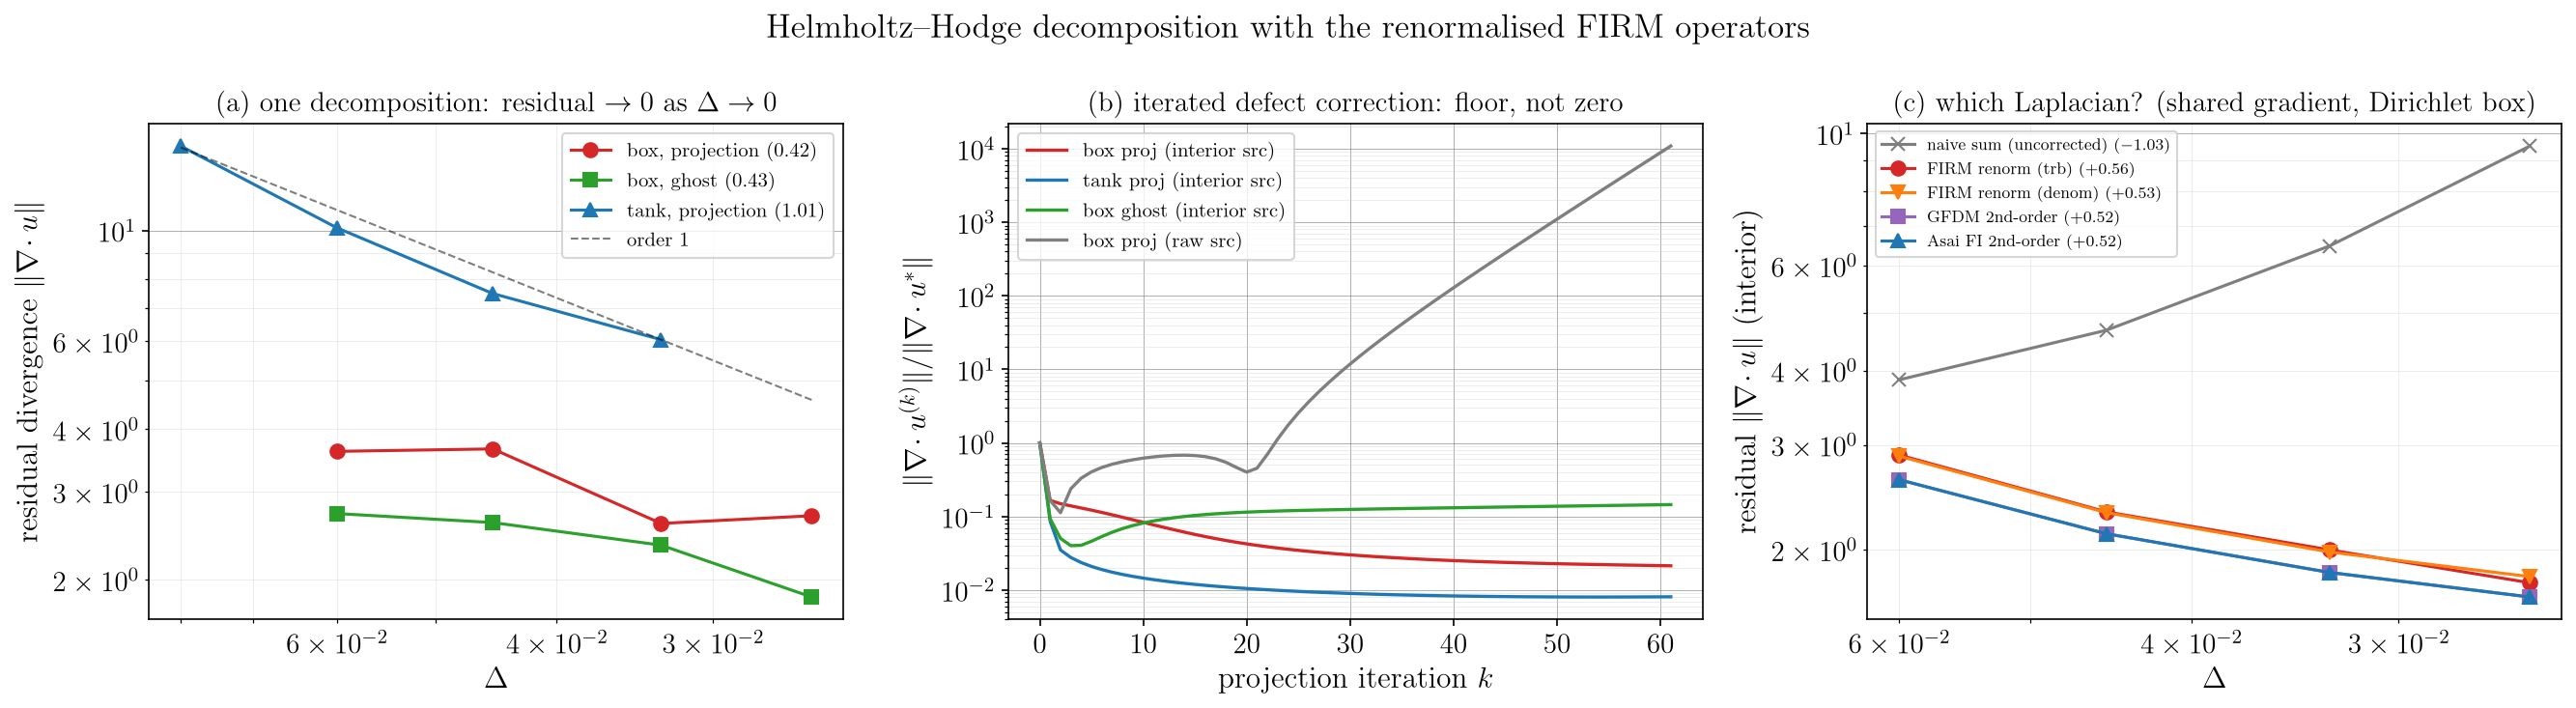
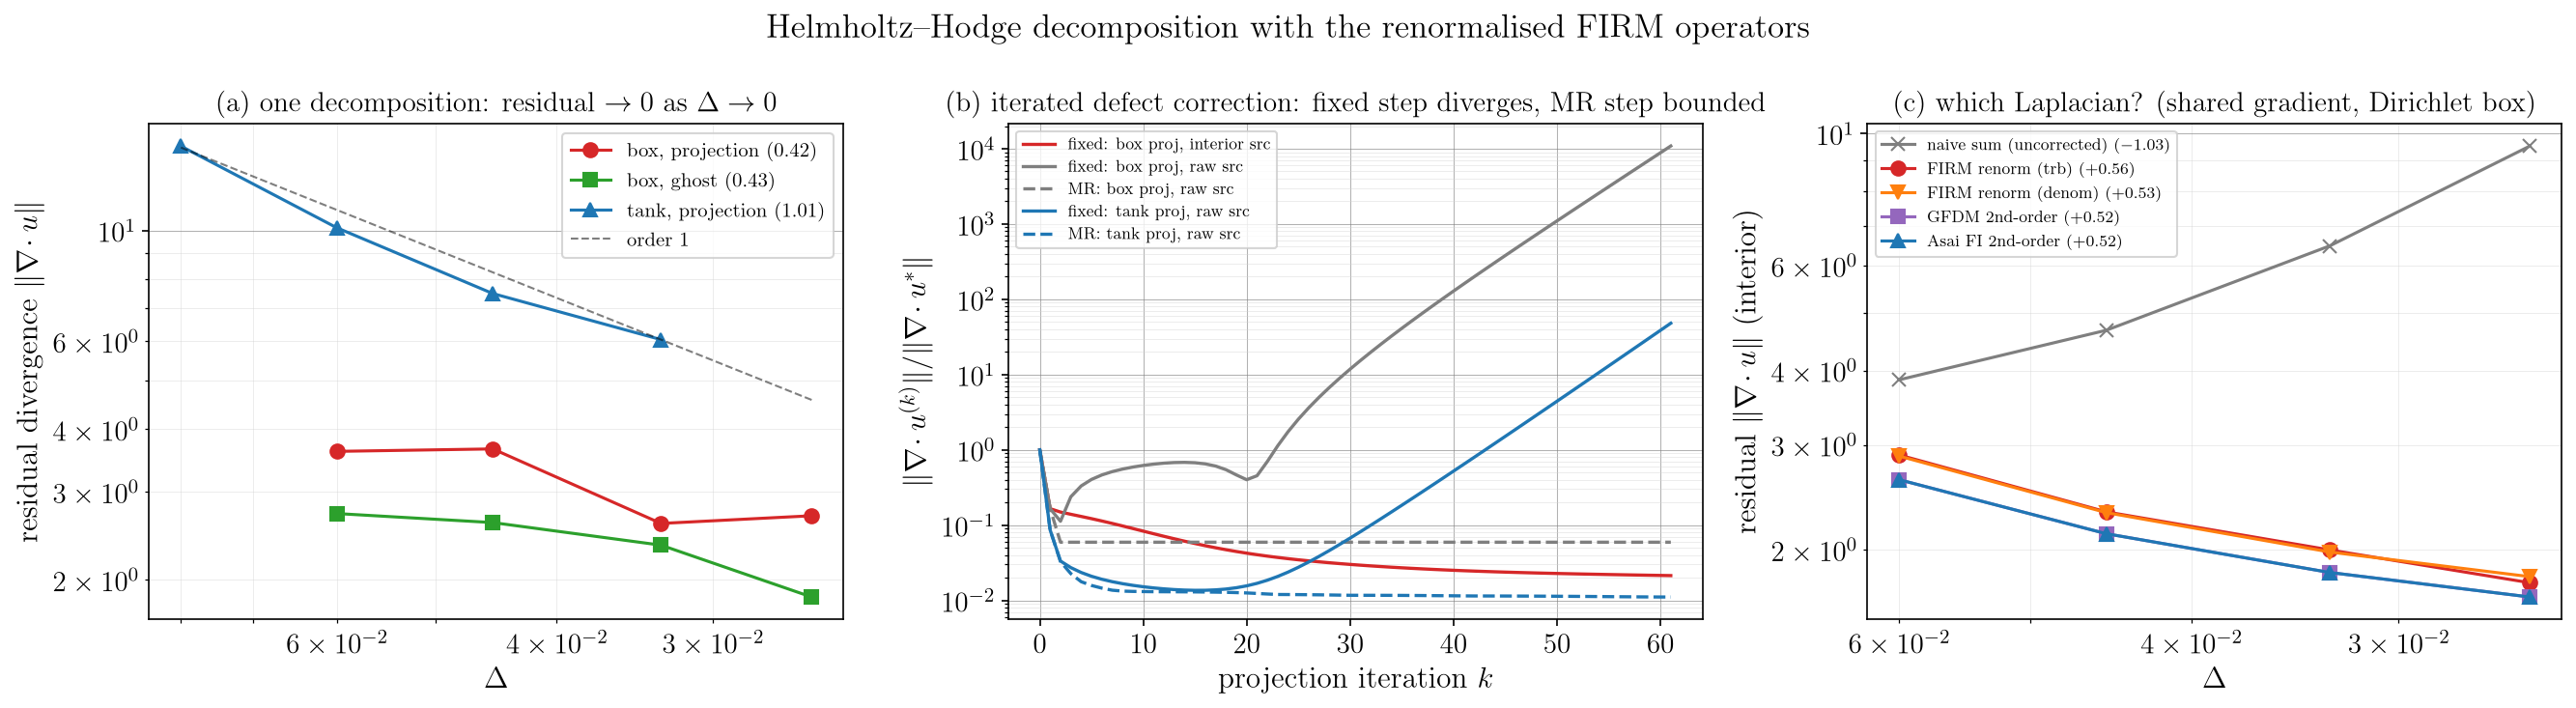
Add minimal-residual iteration method and comparison script for Helmholtz-Hodge decomposition
- Implemented `iterate_mr` function for optimal-step defect correction in `hodge_projection.py`.
- Created `hodge_mr_compare.py` to compare fixed-step and minimal-residual iterations.
- Updated figures in `make_figures.py` to visualize results from both methods.
- Revised LaTeX paper to include findings on stability and performance of minimal-residual steps.

diff --git a/paper/firm_boundary_closure.tex b/paper/firm_boundary_closure.tex
@@ -56,7 +56,9 @@ error by about an order of magnitude and, with the sum normalisation, approaches
 second-order convergence at a straight Neumann boundary. Used in a Helmholtz--Hodge
 decomposition, the renormalised operators are shown to be consistent for a single decomposition,
 the residual divergence equalling the operators' non-adjointness defect and vanishing under
-refinement.
+refinement; the fixed-step iteration of the decomposition is preconditioned Richardson on the
+non-adjoint pairing and can diverge, whereas a minimal-residual step renders it non-expansive and
+stable on disordered or time-evolving clouds.
 \end{abstract}
 
 \begin{keyword}
@@ -75,6 +77,9 @@ physical space before renormalisation.
 the normalisation it approaches second-order convergence.
 \item In a Helmholtz--Hodge decomposition the operators are consistent, the
 residual divergence being their non-adjointness defect, but vanishing with refinement.
+\item Iterating the decomposition is preconditioned Richardson on the non-adjoint
+divergence--gradient pairing; a minimal-residual step makes it non-expansive and stable where the
+fixed-step iteration diverges.
 \end{highlights}
 
 \end{frontmatter}
@@ -1200,18 +1205,51 @@ consistency is thus a property of how the divergence and gradient are paired, mo
 Laplacian's formal order, which is consistent with the central finding of this work that the
 closure, and not the interior order, governs the realised accuracy.
 
-The residual can be reduced further by repeating the decomposition, solving
-Eq.~\eqref{eq:projection} for the current divergence and re-correcting. This defect correction
-lowers the residual to a floor of about one to a few percent of the initial divergence, after
-which it stalls, the asymptotic contraction factor approaching unity; the iteration does not
-reach a divergence-free state, because the commutation defect has a near-null mode that it
-cannot remove [Fig.~\ref{fig:hodge}(b)]. If the raw one-sided divergence at the wall nodes is
-fed to the source rather than carried by the Neumann condition, the iteration diverges. This is
-the flux-only Neumann limitation of Section~\ref{sec:closure} reappearing in the divergence of
-the field, and it indicates that the divergence wall term is itself a candidate for the
-algebraic-ghost completion. The renormalised closure is therefore suited to a single
-Helmholtz--Hodge decomposition, where it gives a small residual divergence that vanishes under
-refinement, rather than to an iteration towards an exactly divergence-free field.
+The residual can be reduced further by repeating the decomposition: solving
+Eq.~\eqref{eq:projection} for the current divergence $r_k=\langle\nabla\!\cdot\mathbf u_k\rangle$
+and re-correcting, $\mathbf u_{k+1}=\mathbf u_k-\gradop{\delta\phi_k}$ with
+$\mathsf L\,\delta\phi_k=r_k$. Taking the discrete divergence of the update shows that this defect
+correction is a fixed-point (Richardson) iteration whose residual propagates by
+\begin{equation}
+  r_{k+1}=\big(\mathsf I-\mathsf D\mathsf G\,\mathsf L^{-1}\big)\,r_k
+         =(\mathsf L-\mathsf D\mathsf G)\,\mathsf L^{-1}\,r_k,
+  \label{eq:hodgeiter}
+\end{equation}
+i.e. it is preconditioned Richardson for the exact-projection system $\mathsf D\mathsf G\,\phi=r$
+with the renormalised Laplacian as preconditioner, and its convergence is governed by the spectral
+radius of the commutation defect $(\mathsf L-\mathsf D\mathsf G)\,\mathsf L^{-1}$. With the
+consistent interior source that radius is below but close to unity, so the iteration lowers the
+residual to a floor of about one to a few percent of the initial divergence and then stalls,
+never reaching a divergence-free state because the defect has a near-null mode it cannot remove
+[Fig.~\ref{fig:hodge}(b)]. If the raw one-sided divergence at the wall nodes is fed to the source
+rather than carried by the Neumann condition the radius exceeds unity and the iteration diverges
+(Fig.~\ref{fig:hodge}(b), $\rho_\infty\!\approx\!1.2$--$1.5$); this is the flux-only Neumann
+limitation of Section~\ref{sec:closure} reappearing in the divergence of the field, and it
+indicates that the divergence wall term is itself a candidate for the algebraic-ghost completion.
+The same mechanism limits a fixed-step pressure projection in an unsteady Lagrangian solver, where
+the source is the rough divergence of a straining, disordered cloud and the unit step amplifies the
+defect's particle-scale modes.
+
+The fixed unit step is, however, not intrinsic to the decomposition and can be replaced by the step
+that minimises the residual. Since $\mathsf D$ is linear, correcting
+$\mathbf u_{k+1}=\mathbf u_k-\alpha_k\gradop{\delta\phi_k}$ leaves the exact divergence
+$r_{k+1}=r_k-\alpha_k\,\mathsf g_k$ with $\mathsf g_k=\mathsf D\mathsf G\,\delta\phi_k$, so the
+minimiser
+\begin{equation}
+  \alpha_k=\frac{\langle r_k,\,\mathsf g_k\rangle}{\langle \mathsf g_k,\,\mathsf g_k\rangle}
+  \label{eq:mrstep}
+\end{equation}
+gives $\|r_{k+1}\|\le\|r_k\|$ \emph{unconditionally}, for any cloud and any source, irrespective of
+the spectral radius in Eq.~\eqref{eq:hodgeiter}. This minimal-residual (steepest-descent) step is a
+line search along the same direction the fixed iteration uses and costs one extra divergence
+evaluation and two inner products per sweep. On the diverging raw-source cases it brings the
+asymptotic factor from $\rho_\infty\!\approx\!1.2$--$1.5$ down to $\rho_\infty\!\le\!1$, with a
+residual floor several times smaller than the value the fixed step reaches before it blows up
+[Fig.~\ref{fig:hodge}(b)]; on the consistent interior source it stalls at the same near-null floor
+as the fixed step, now monotonically. The renormalised closure is therefore suited to a single
+Helmholtz--Hodge decomposition, with a small residual divergence that vanishes under refinement;
+iterating it is stable only with the minimal-residual step, which is the form to use when an
+approximately divergence-free field is sought from disordered or time-evolving clouds.
 
 \begin{figure}[t]
   \centering
@@ -1220,8 +1258,11 @@ refinement, rather than to an iteration towards an exactly divergence-free field
   field~\eqref{eq:hodgefield}. (a) The residual divergence of the solenoidal part after one
   decomposition against $\Delta$, on the box with the projection and algebraic-ghost Neumann
   closures and on the wedge tank, with an order-one reference; it vanishes under refinement.
-  (b) Iterated defect correction at chaos $60\%$: the residual falls to a floor and stalls,
-  while feeding the raw one-sided wall divergence to the source diverges. (c) The choice of
+  (b) Iterated defect correction at chaos $60\%$, fixed unit step (solid) versus the
+  minimal-residual step of Eq.~\eqref{eq:mrstep} (dashed): with the consistent interior source the
+  fixed step falls to a floor and stalls; feeding the raw one-sided wall divergence to the source
+  makes the fixed step diverge ($\rho_\infty>1$), whereas the minimal-residual step stays
+  non-expansive ($\rho_\infty\le1$) and reaches a lower floor. (c) The choice of
   Laplacian, with a shared gradient on a Dirichlet box: the uncorrected summation diverges,
   whereas the renormalised, GFDM and Full-Inverse operators are consistent and close, the
   residual being set by the gradient pairing rather than the Laplacian order.}
@@ -1328,9 +1369,12 @@ decomposition, because the residual is set by the divergence--gradient pairing a
 interior order (Section~\ref{sec:hodge}). The simple, low-order operator is therefore as
 effective as the higher-accuracy operators for this purpose, at a fraction of the cost, and the
 small remaining residual is reduced further by iterating the decomposition, which drives the
-divergence down to a floor of about one percent. A low-order but conveniently assembled
-operator, combined appropriately and applied iteratively, thus performs the Helmholtz--Hodge
-decomposition on a par with the higher-order alternatives.
+divergence down to a floor of about one percent. That iteration must take the minimal-residual
+step (Section~\ref{sec:hodge}): being preconditioned Richardson on the non-adjoint
+divergence--gradient pairing, the fixed unit step can amplify the defect on disordered or
+time-evolving clouds, whereas the optimal step is non-expansive by construction. A low-order but
+conveniently assembled operator, combined appropriately and applied iteratively in this way, thus
+performs the Helmholtz--Hodge decomposition on a par with the higher-order alternatives.
 
 % =============================================================================
 \section{Conclusions}
@@ -1372,9 +1416,11 @@ to be consistent for a single decomposition, with the residual divergence equal 
 non-adjointness defect and vanishing under refinement, and governed by the divergence--gradient
 pairing rather than the Laplacian order. In consequence the simple low-order operator cleans the
 same fraction of the divergence in a single decomposition as the second-order GFDM and
-Full-Inverse operators, and an iterated decomposition reduces the residual further, so the
-conveniently assembled low-order construction performs the Helmholtz--Hodge decomposition on a
-par with the higher-accuracy alternatives (Table~\ref{tab:schemes}). A full incompressible-flow
+Full-Inverse operators, and an iterated decomposition with the minimal-residual step --- which
+keeps the iteration stable on the disordered, time-evolving clouds where a fixed step would
+diverge --- reduces the residual further, so the conveniently assembled low-order construction
+performs the Helmholtz--Hodge decomposition on a par with the higher-accuracy alternatives
+(Table~\ref{tab:schemes}). A full incompressible-flow
 application would
 additionally require the no-slip velocity Robin condition and the stress-free surface, which
 inherit the same boundary-condition-by-type treatment, and a divergence-free time integration;

diff --git a/firm/hodge_mr_compare.py b/firm/hodge_mr_compare.py
@@ -1,0 +1,57 @@
+"""Fixed-step vs minimal-residual (MR) iterated Helmholtz-Hodge decomposition.
+
+Reuses the manufactured fixture and operators of hodge_projection.py. For each case it
+reports, for BOTH the fixed unit-step defect correction (iterate) and the optimal-step MR
+variant (iterate_mr): the single-projection reduction r1/r0, the floor min_k r_k/r0 (at k*),
+and the asymptotic per-step contraction rho_inf (->1 = stall, >1 = divergence). The decisive
+rows are the `raw` ones (full truncated wall divergence as the source), where the fixed step
+diverges (rho>1) and the MR step must stay non-expansive (rho<=1).
+
+Run:  python firm/hodge_mr_compare.py
+"""
+import os, sys
+import numpy as np
+
+sys.path.insert(0, os.path.dirname(os.path.abspath(__file__)))
+import hodge_projection as H
+
+
+def _stats(rs):
+    rr = np.array(rs) / max(rs[0], 1e-30)
+    kf = int(np.argmin(rr))
+    rho, _ = H.contraction(rs)
+    return rs[1] / max(rs[0], 1e-30), float(rr[kf]), kf, rho
+
+
+def main():
+    print("=" * 104)
+    print("ITERATED HODGE: fixed unit step (Richardson) vs minimal-residual optimal step")
+    print("=" * 104)
+    cases = [
+        ("box", 0.045, "projection", 0.0),
+        ("box", 0.045, "projection", 0.3),
+        ("box", 0.045, "ghost", 0.3),
+        ("tank", 0.045, "projection", 0.3),
+        ("tank", 0.045, "ghost", 0.3),
+    ]
+    hdr = ("  domain dx     closure    jit  raw |   FIXED: r1/r0  floor(@k*)  rho_inf |"
+           "   MR: r1/r0  floor(@k*)  rho_inf")
+    print(hdr)
+    print("  " + "-" * 100)
+    for domain, dx, wc, jit in cases:
+        case = H.run_case(domain, dx, wc, "trb", 7, jit)
+        for raw in (False, True):
+            f1, ff, fk, frho = _stats(H.iterate(case, raw=raw))
+            m1, mf, mk, mrho = _stats(H.iterate_mr(case, raw=raw))
+            print("  %-5s  %.3f  %-10s %.1f  %3s | %8.3f  %.2e(%2d) %7.3f |"
+                  "  %8.3f  %.2e(%2d) %7.3f"
+                  % (domain, dx, wc, jit, "Y" if raw else "n",
+                     f1, ff, fk, frho, m1, mf, mk, mrho))
+    print("  " + "-" * 100)
+    print("  rho_inf -> 1 : stall (residual floor, not zero).  rho_inf > 1 : divergence.")
+    print("  MR guarantees ||r_{k+1}|| <= ||r_k|| (rho_inf <= 1) on every row, incl. raw.")
+    print("=" * 104)
+
+
+if __name__ == "__main__":
+    main()

diff --git a/firm/hodge_projection.py b/firm/hodge_projection.py
@@ -429,6 +429,47 @@ def iterate(case, kmax=KMAX, tol=ITOL, raw=False):
     return rs
 
 
+def iterate_mr(case, kmax=KMAX, tol=ITOL, raw=False):
+    """Minimal-residual (optimal-step) defect correction. Same search direction as
+    iterate() -- solve L d_phi = D u^{(k)} (homogeneous BC, same factorization) -- but
+    instead of the FIXED unit step u -= G d_phi, take the step that minimises the residual
+    divergence. With r = D u and g = D G d_phi, the post-step divergence is exactly
+    r - alpha g (D is linear), so
+
+        alpha = <r, g> / <g, g>   (interior inner products)
+
+    minimises ||D u||_interior and gives ||r_{k+1}|| <= ||r_k|| UNCONDITIONALLY -- for any
+    cloud, any source, regardless of rho(E L^-1). It is the line search along the same
+    direction the fixed-step iteration uses, i.e. a minimal-residual (steepest-descent)
+    accelerator of the defect correction. Returns [r0, r1, r2, ...] like iterate()."""
+    cache, A, Nvec = case["cache"], case["A"], case["Nvec"]
+    interior, pin, dx = case["interior"], case["pin"], case["dx"]
+    us, u = case["us"], case["u"].copy()
+    N, d = case["pos"].shape
+    lu = splu(A.tocsc())
+    rs = [wnorm(divergence(cache, us, N, d), interior, dx)]
+    rs.append(wnorm(divergence(cache, u, N, d), interior, dx))
+    for _ in range(kmax):
+        du = divergence(cache, u, N, d)            # r = D u
+        b = du / Nvec                              # homogeneous increment direction
+        if not raw:
+            b[~interior] = 0.0
+        if pin is not None:
+            b[pin] = 0.0
+        dphi = lu.solve(b)
+        Gdphi = grad_scalar(cache, dphi, N, d)
+        g = divergence(cache, Gdphi, N, d)         # g = D G d_phi
+        m = interior
+        den = float(np.sum(g[m] * g[m]))
+        alpha = float(np.sum(du[m] * g[m]) / den) if den > 1e-30 else 0.0
+        u = u - alpha * Gdphi                       # optimal-step correction
+        r = wnorm(divergence(cache, u, N, d), interior, dx)
+        rs.append(r)
+        if r <= tol * rs[0] or r < 1e-14:
+            break
+    return rs
+
+
 def contraction(rs, last=6):
     """ASYMPTOTIC per-step contraction from the final `last` iterations (more stable
     than a whole-tail geometric mean, which is skewed by the fast initial drop), plus

diff --git a/firm/make_figures.py b/firm/make_figures.py
@@ -213,19 +213,25 @@ def fig_hodge():
     ax[0].legend(); plotstyle.grid(ax[0]); ax[0].invert_xaxis()
     ax[0].set_title(r"(a) one decomposition: residual $\to 0$ as $\Delta\to0$")
 
-    # ---- panel 2: iterated decay r_k/r0 ----
-    runs = [("box", "projection", 0.3, False, "tab:red", "box proj (interior src)"),
-            ("tank", "projection", 0.3, False, "tab:blue", "tank proj (interior src)"),
-            ("box", "ghost", 0.3, False, "tab:green", "box ghost (interior src)"),
-            ("box", "projection", 0.3, True, "tab:gray", "box proj (raw src)")]
+    # ---- panel 2: iterated decay r_k/r0 -- fixed unit step vs minimal-residual step ----
+    # Interior-source runs (consistent): both fixed and MR stall at the defect near-null floor.
+    # Raw-source runs (full truncated wall divergence): the FIXED step DIVERGES (rho>1) while the
+    # MR step stays non-expansive (rho<=1) -- the manufactured-field analogue of the unsteady solver.
+    runs = [("box", "projection", 0.3, False, "tab:red", "box proj, interior src"),
+            ("box", "projection", 0.3, True, "tab:gray", "box proj, raw src"),
+            ("tank", "projection", 0.3, True, "tab:blue", "tank proj, raw src")]
     for domain, wc, jit, raw, col, lbl in runs:
         case = hp.run_case(domain, 0.045, wc, "trb", 7, jit)
         rs = np.array(hp.iterate(case, kmax=60, tol=1e-12, raw=raw))
-        ks = np.arange(len(rs))
-        ax[1].semilogy(ks, rs / rs[0], "-", color=col, lw=1.6, label=lbl)
+        ax[1].semilogy(np.arange(len(rs)), rs / rs[0], "-", color=col, lw=1.6,
+                       label="fixed: " + lbl)
+        if raw:  # the minimal-residual cure for the diverging (raw-source) cases
+            rm = np.array(hp.iterate_mr(case, kmax=60, tol=1e-12, raw=raw))
+            ax[1].semilogy(np.arange(len(rm)), rm / rm[0], "--", color=col, lw=1.6,
+                           label="MR: " + lbl)
     ax[1].set_xlabel(r"projection iteration $k$"); ax[1].set_ylabel(r"$\|\nabla\!\cdot u^{(k)}\| / \|\nabla\!\cdot u^*\|$")
-    ax[1].legend(); plotstyle.grid(ax[1])
-    ax[1].set_title(r"(b) iterated defect correction: floor, not zero")
+    ax[1].legend(fontsize=8); plotstyle.grid(ax[1])
+    ax[1].set_title(r"(b) iterated defect correction: fixed step diverges, MR step bounded")
 
     # ---- panel 3: operator comparison (Dirichlet box, common gradient) ----
     res = hp.compare_operators(dxs=hp.DXS_BOX, seeds=(7, 11, 19))